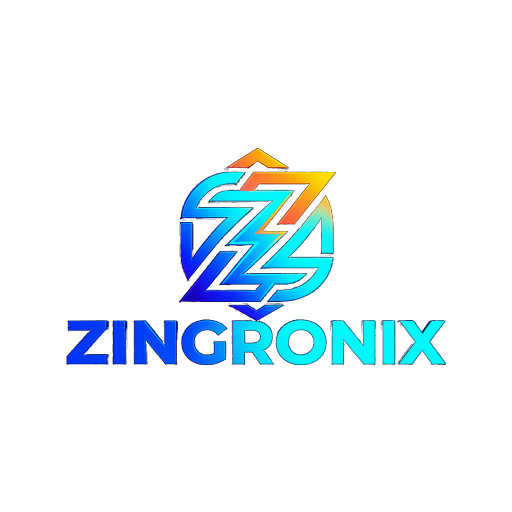
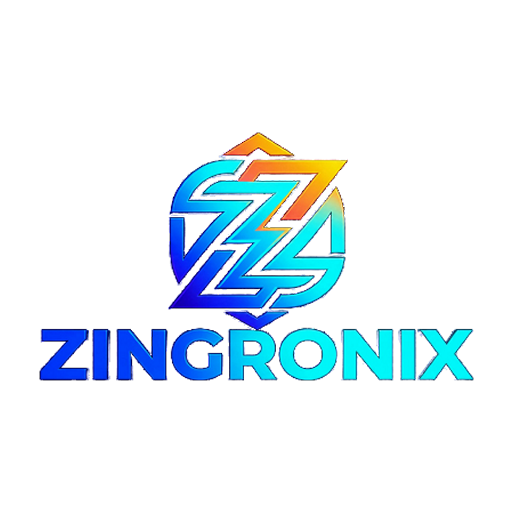
jk

Changed region(s): [[0.0625, 0.25, 0.9375, 0.75]]

diff --git a/removeBg.js b/removeBg.js
@@ -33,6 +33,7 @@ async function run() {
     await removeBlackBackground('C:\\Users\\AKHIL\\Downloads\\LOGO.jpeg', 'd:\\AKHIL\\ESTIMATION\\frontend\\public\\logo.png');
     // For the assets folder, just copy the new transparent one over
     const fs = require('fs');
+    fs.copyFileSync('d:\\AKHIL\\ESTIMATION\\frontend\\public\\logo.png', 'd:\\AKHIL\\ESTIMATION\\frontend\\src\\assets\\logo.png');
     fs.copyFileSync('d:\\AKHIL\\ESTIMATION\\frontend\\public\\logo.png', 'd:\\AKHIL\\ESTIMATION\\frontend\\src\\assets\\logo.jpg');
     console.log('Copied to src/assets as well.');
 }

diff --git a/frontend/src/components/Sidebar.jsx b/frontend/src/components/Sidebar.jsx
@@ -7,7 +7,7 @@ import {
   LogOut, UserCheck, FileCode, StickyNote, ChevronLeft, Star, Shield, CalendarRange, BadgeCheck
 } from 'lucide-react';
 import WorkspaceSwitcher from './WorkspaceSwitcher';
-import logo from '../assets/logo.jpg';
+import logo from '../assets/logo.png';
 import { useModules } from '../context/ModuleContext';
 import { ALL_MODULES, MODULE_CATEGORIES } from '../config/moduleRegistry';
 

diff --git a/frontend/src/pages/Login.jsx b/frontend/src/pages/Login.jsx
@@ -4,7 +4,7 @@ import { Mail, Lock, User as UserIcon, ArrowRight, Sparkles } from 'lucide-react
 import { useNavigate } from 'react-router-dom';
 import api from '../utils/api';
 import { useProgram } from '../context/ProgramContext';
-import logo from '../assets/logo.jpg';
+import logo from '../assets/logo.png';
 
 const Login = () => {
   const navigate = useNavigate();
